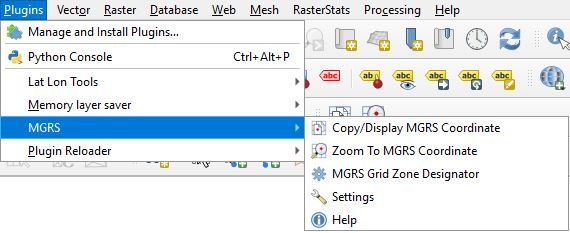
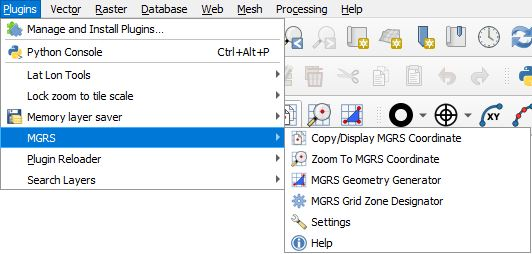
Documentation updates

Changed region(s): [[0.0, 0.0, 1.0, 1.0], [0.9925, 0.721, 1.0, 0.7811], [0.9925, 0.5708, 1.0, 0.6009]]

diff --git a/readme.md b/readme.md
@@ -1,6 +1,6 @@
 # MGRS Plugin
 
-***MGRS*** provides zoom to and coordinate capture ability for MGRS coordinates separate from the ***Lat Lon Tools*** plugin. It was produced for users who want separate tools and to be able to have both ***MGRS*** and ***Lat Lon Tools*** windows displayed at the same time. It also provides an algorithm to create an MGRS Grid Zone Designator layer. If you need the ability to convert an attribute table with MGRS coordinates to a new point layer or convert a point layer to a new layer with an MGRS attribute string, then use ***Lat Lon Tools***. The MGRS plugin is installed in the QGIS Plugins menu.
+***MGRS*** provides zoom to and coordinate capture ability for MGRS coordinates separate from the ***Lat Lon Tools*** plugin. It was produced for users who want separate tools and to be able to have both ***MGRS*** and ***Lat Lon Tools*** windows displayed at the same time. Given a set of MGRS coordinates it provide a tool to display them as points, a line, a polygon, or a bounding box around them. It also provides an algorithm to create an MGRS Grid Zone Designator layer. If you need the ability to convert an attribute table with MGRS coordinates to a new point layer or convert a point layer to a new layer with an MGRS attribute string, then use ***Lat Lon Tools***. The MGRS plugin is installed in the QGIS Plugins menu.
 
 <div style="text-align:center"><img src="doc/menu.jpg" alt="MGRS menu"></div>
 
@@ -13,6 +13,10 @@ These are the MGRS tools as shown on the ***MGRS toolbar***.
 * <img src="images/zoomToMgrs.svg" alt="Zoom-to"> ***Zoom to MGRS Coordinate*** - With this tool, type or paste an MGRS coordinate into the text area and press **Enter**. QGIS centers the map on the coordinate, highlights the location and creates a temporary marker at the location. The marker can be removed with the <img src="doc/cleartool.jpg" alt="Clear marker"> button. The following shows the dockable zoom to dialog box.
 
     <div style="text-align:center"><img src="doc/zoomdialog.jpg" alt="Zoom Dialog box"></div>
+
+* <img src="images/mgrsGeom.svg" alt="Zoom-to"> ***MGRS Geometry Generator*** - This provides a text box area to paste in MGRS coordiates. The user has the options to display these as points, a line, a polygon, or a bounding box that encloses all the points. Here is the dialog box. The choices for the drop down menu next to ***Render as...*** are ***Points***, ***Lines***, ***Polygons***, and ***Bounding Box***.
+
+    <div style="text-align:center"><img src="doc/mgrs_geom1.jpg" alt="Geometry Generator Dialog box"></div>
 
 * <img src="doc/gzd.jpg" width="24" alt="MGRS Grid Zone Designator"> ***MGRS Grid Zone Designator*** - This will create an MGRS Grid Zone Designator overlay layer.
 
